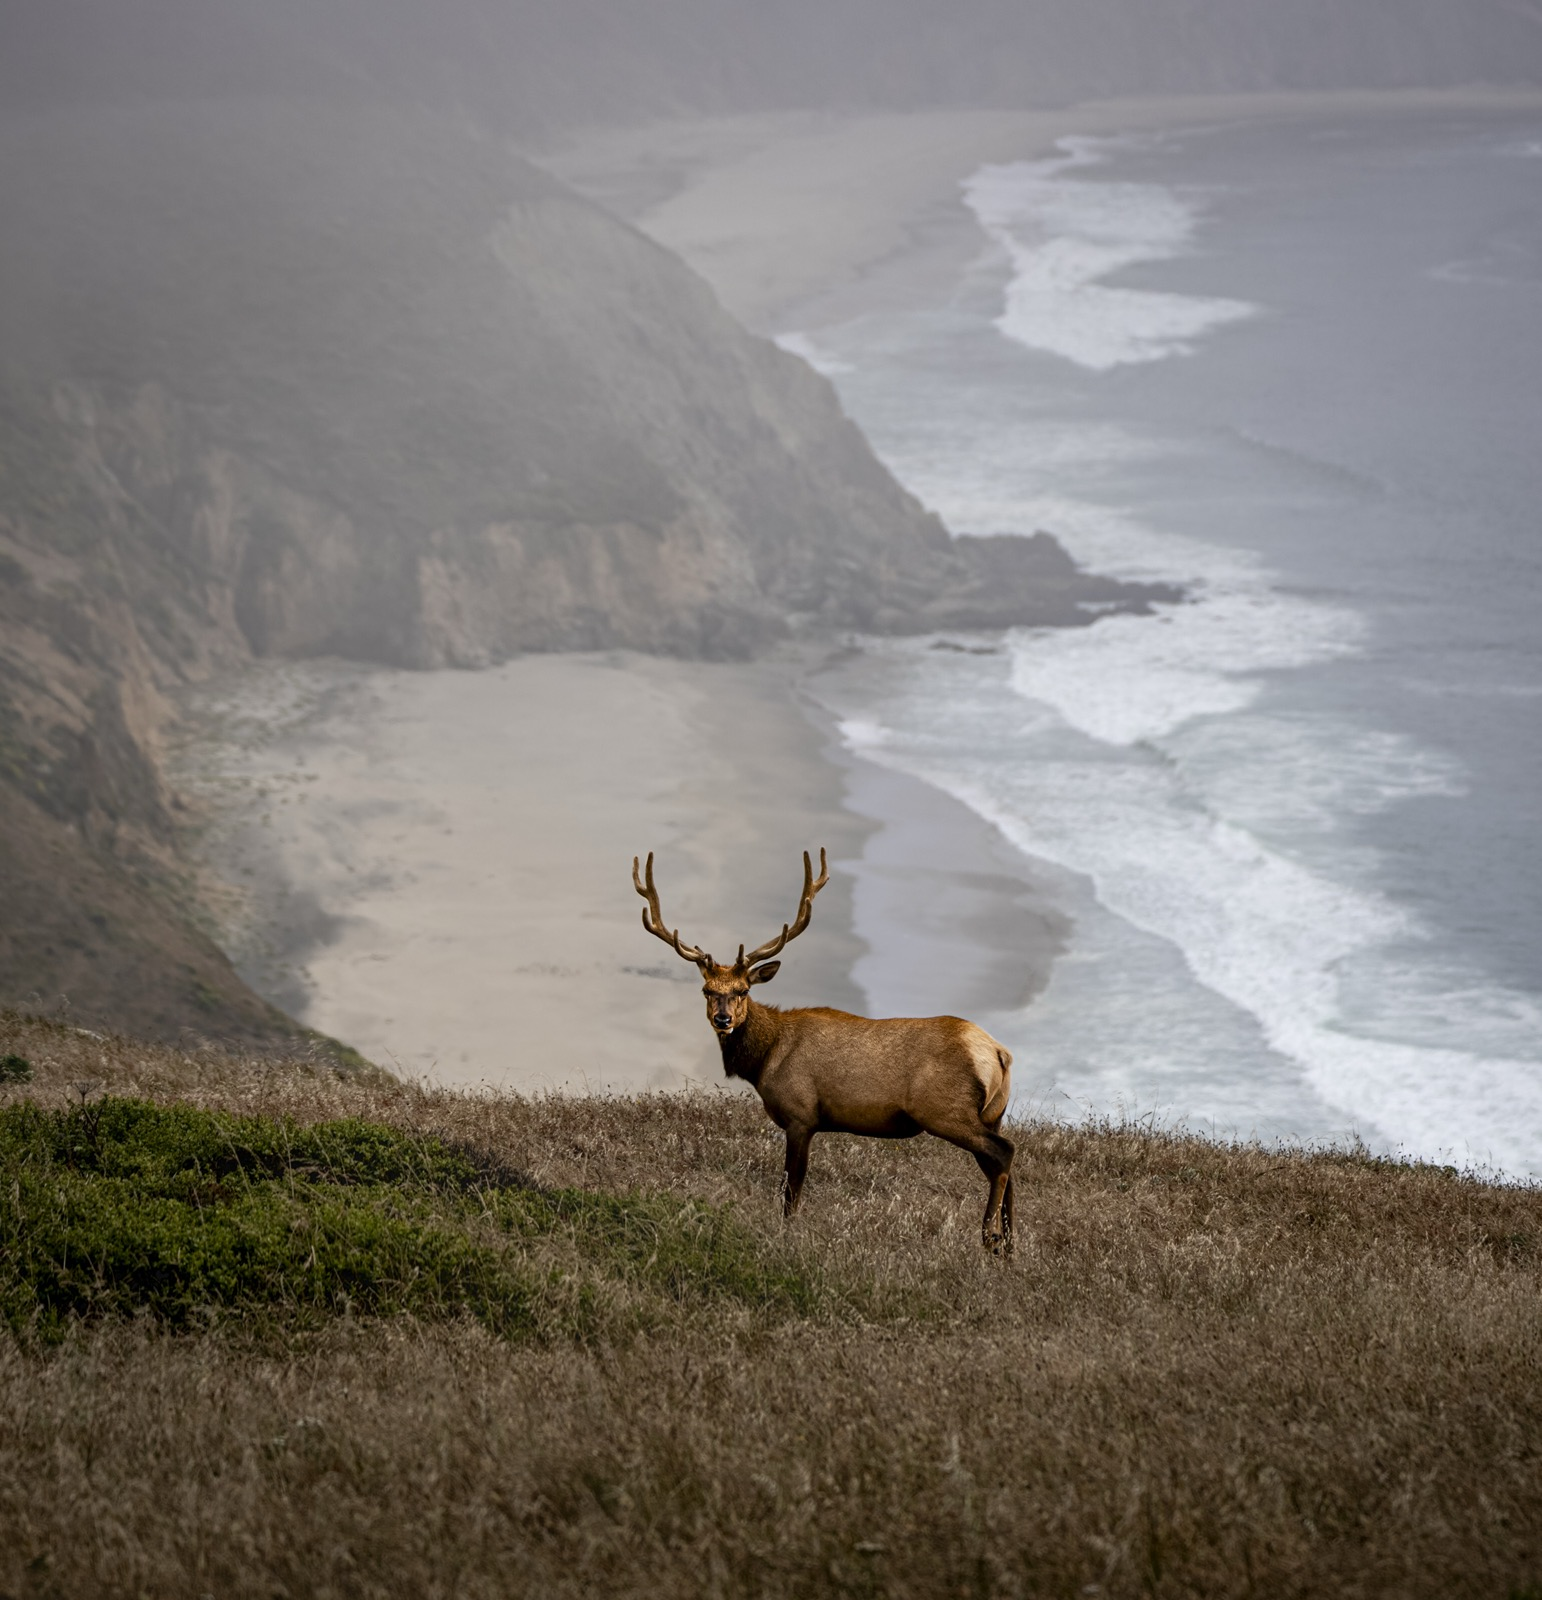
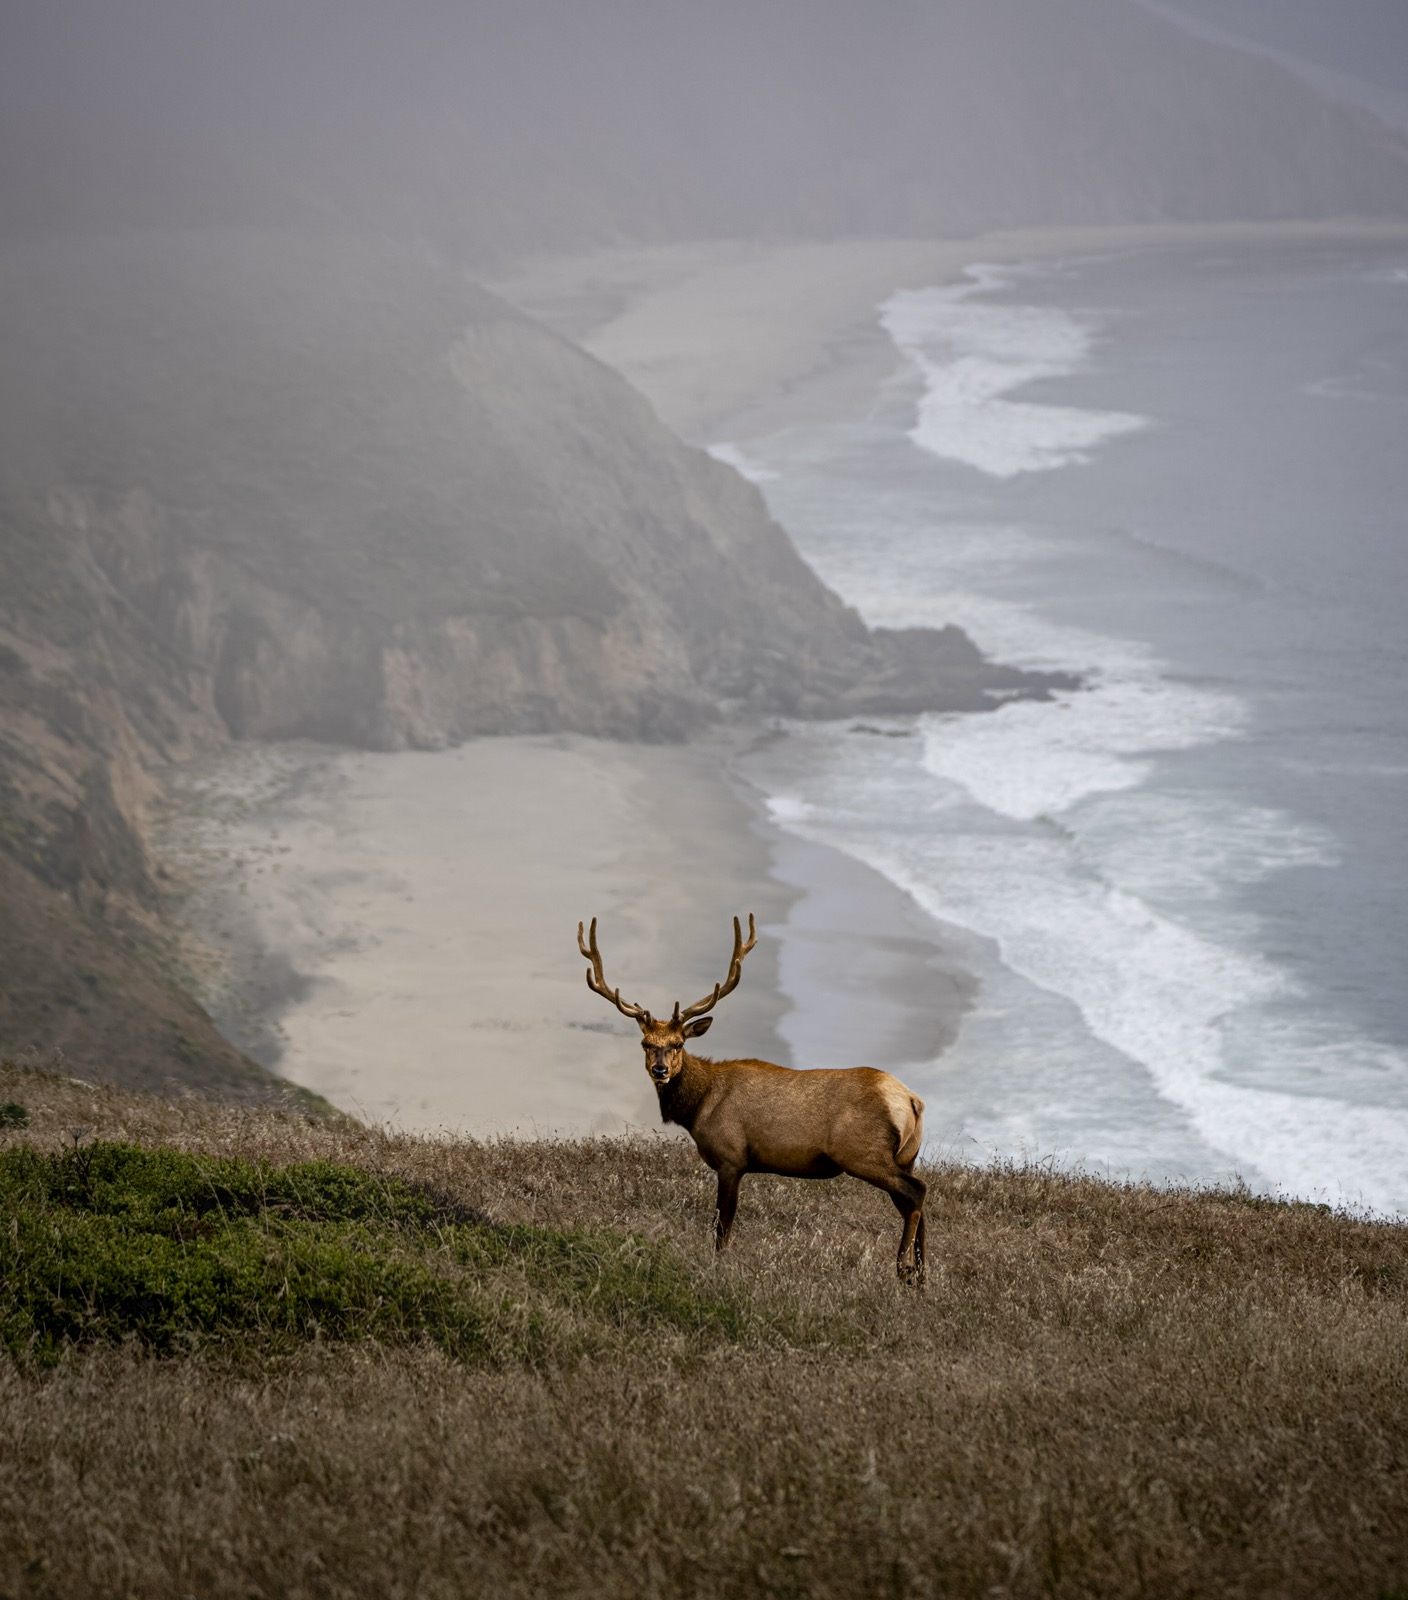
Update Tule Elk photo with new version
Regenerates 900px thumb and 1600px large; updates thumb dimensions in index.html (792x900).

Changed region(s): [[0.0, 0.0938, 1.0, 0.9688]]

diff --git a/index.html b/index.html
@@ -58,7 +58,7 @@
                 </div>
 
                 <div class="gallery-item portrait" data-type="color">
-                    <img src="images/thumbs/Tule-Elk.jpg" data-full="images/Tule-Elk.jpg" alt="Tule Elk" loading="lazy" srcset="images/thumbs/Tule-Elk.jpg 900w, images/large/Tule-Elk.jpg 1600w" sizes="(min-width: 768px) min(1000px, 100vw), 100vw" width="867" height="900">
+                    <img src="images/thumbs/Tule-Elk.jpg" data-full="images/Tule-Elk.jpg" alt="Tule Elk" loading="lazy" srcset="images/thumbs/Tule-Elk.jpg 900w, images/large/Tule-Elk.jpg 1600w" sizes="(min-width: 768px) min(1000px, 100vw), 100vw" width="792" height="900">
                     <div class="gallery-overlay">
                         <span class="photo-title">Tule Elk</span>
                         <span class="photo-location">Tomales Point, California</span>
